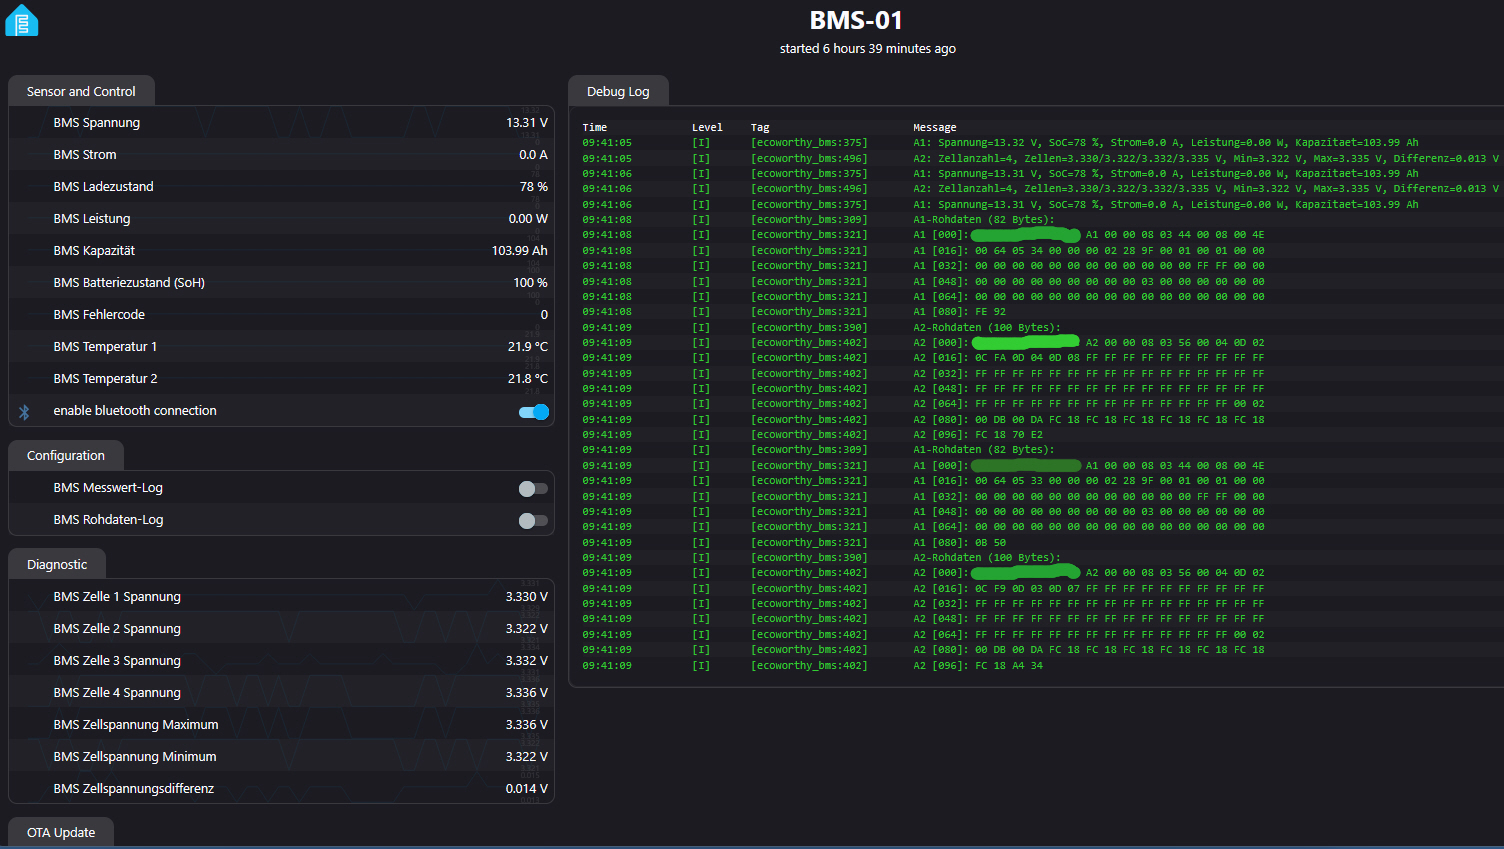
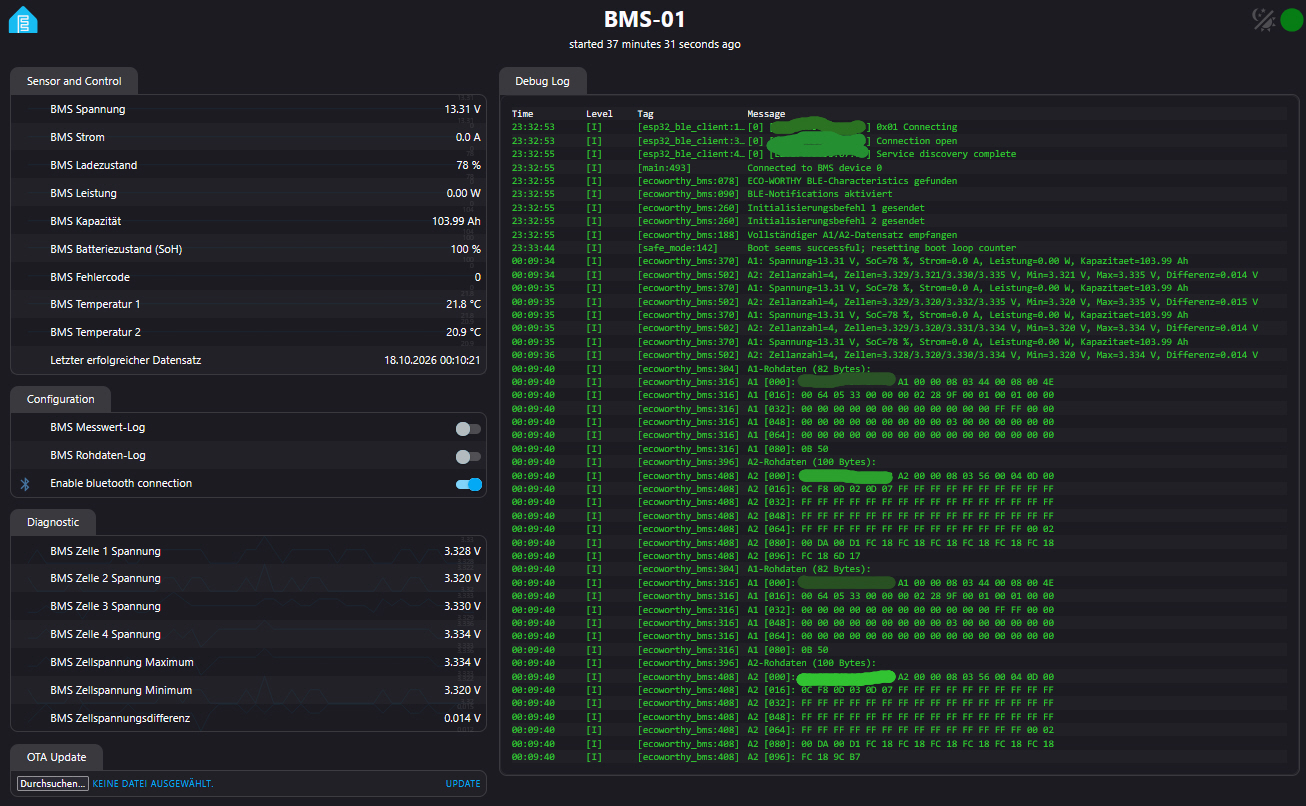
Anpassung Readme

Changed region(s): [[0.0, 0.0, 1.0, 1.0], [0.9495, 0.0, 1.0, 0.062]]

diff --git a/README.md b/README.md
@@ -206,7 +206,8 @@ Die folgenden Werte stammen aus aufgezeichneten Paketen des getesteten BMS.
 | Temperatur 1              | `00 E6`             |          23,0 °C |
 | Temperatur 2              | `00 E2`             |          22,6 °C |
 
-Diese Tabelle dokumentiert eine konkrete Aufzeichnung. Sie garantiert nicht, dass alle ECO-WORTHY-Modelle dieselbe Datenstruktur oder Skalierung verwenden.
+Diese Tabelle dokumentiert eine konkrete Aufzeichnung. Sie garantiert nicht, 
+dass alle ECO-WORTHY-Modelle dieselbe Datenstruktur oder Skalierung verwenden.
 
 ## Beispielkonfiguration
 
@@ -221,180 +222,47 @@ ESPHome-Version getestet wurde.
 Die Konfiguration verwendet ESPHome-Funktionen und Syntax, deren Verfügbarkeit von der 
 ESPHome-Version abhängen kann. Bei älteren Versionen können Anpassungen erforderlich sein.
 
-WLAN-Zugangsdaten und Bluetooth-Adresse müssen an die eigene Installation angepasst werden.
+Passe die WLAN-Zugangsdaten und die Bluetooth-Adresse an deine Installation an.
+
+**Zeitsynchronisation für die Anzeige des letzten erfolgreichen Datenempfangs:**
+
+Der ESP32 benötigt eine gültige Uhrzeit, damit der Zeitpunkt des letzten 
+erfolgreichen Datenempfangs korrekt angezeigt werden kann.
+
+* **Mit Internetzugriff:** Die beiden mit `#` auskommentierten 
+Zeilen `servers` und `- "192.168.1.10"` bleiben auskommentiert. 
+ESPHome verwendet dann automatisch die Standardzeitserver `0.pool.ntp.org`, `1.pool.ntp.org` 
+und `2.pool.ntp.org`.
+* **Ohne Internetzugriff:** Wenn ein lokaler NTP-Zeitserver verfügbar ist, 
+entferne die Kommentarzeichen vor beiden Zeilen und trage dessen IP-Adresse ein. 
+Der Zeitserver muss vom ESP32 erreichbar sein.
+* **Ohne erreichbaren Zeitserver:** Die Uhrzeit kann nicht zuverlässig synchronisiert werden. 
+Der angezeigte Zeitpunkt des letzten Datenempfangs ist dann möglicherweise nicht korrekt.
 
 
 ```yaml
-esphome:
-  name: bms01
-  friendly_name: BMS-01
-
-esp32:
-  board: "esp32-s3-devkitc-1"
-  variant: "esp32s3"
-  framework:
-    type: esp-idf
-
-external_components:
-  - source:
-      type: local
-      path: ./components
 
 wifi:
-  ssid: "WIFI-SSID"
-  password: "SecretWifiPwd"
-  reboot_timeout: 0s
-  min_auth_mode: WPA2
-  fast_connect: True
-  on_connect:
-    - logger.log:
-        level: INFO
-        format: "Connected to WiFi. Starting BLE scan."
-  on_disconnect:
-    - logger.log:
-        level: INFO
-        format: "Disconnected from WiFi. Stopping BLE scan."
+  ssid: "WIFI-SSID"  # Wi-Fi SSID des lokalen WLAN-AP eintragen
+  password: "SecretWifiPwd"  # Password des lokalen WLAN-AP eintragen
 
-web_server:
-  port: 80
-  version: 3
-
-ota:
-  platform: web_server
-  on_begin:
-    then:
-      - switch.turn_off: ble_client_switch0
-      - logger.log: "BLE connection suspended for OTA update"
-
-logger:
-  level: INFO
-
+```
+```yaml
 time:
   - platform: sntp
     id: sntp_time
     timezone: "Europe/Berlin"
-    servers:
-     - 127.0.0.1
+#    servers:
+#     - "192.168.1.10"  # IP-Adresse des lokalen NTP-Zeitservers eintragen
 
-# api:
-esp32_ble_tracker:
-  scan_parameters:
-    active: false
+```
+```yaml
 
 ble_client:
   - id: client0
-    mac_address: "00:00:00:00:00:00"
-    on_connect:
-      then:
-        - logger.log:
-            level: INFO
-            format: "Connected to BMS device 0"
-    on_disconnect:
-      then:
-        - logger.log:
-            level: INFO
-            format: "Disconnected from BMS device 0"
+    mac_address: "00:00:00:00:00:00"  # MAC-Adresse des BMS eintragen
 
-ecoworthy_bms:
-  - id: bms0
-    ble_client_id: client0
-    update_interval: 2s
 
-    voltage:
-      name: "BMS Spannung"
-      web_server:
-        sorting_weight: 0
-
-    current:
-      name: "BMS Strom"
-      web_server:
-        sorting_weight: 1
-
-    soc:
-      name: "BMS Ladezustand"
-      web_server:
-        sorting_weight: 2
-    power:
-      name: "BMS Leistung"
-      web_server:
-        sorting_weight: 3
-    capacity:
-      name: "BMS Kapazität"
-      web_server:
-        sorting_weight: 4
-
-    battery_health:
-      name: "BMS Batteriezustand (SoH)"
-      web_server:
-        sorting_weight: 5
-    problem_code:
-      name: "BMS Fehlercode"
-      web_server:
-        sorting_weight: 6
-
-    temperature1:
-      name: "BMS Temperatur 1"
-    temperature2:
-      name: "BMS Temperatur 2"
-
-    cell1_voltage:
-      name: "BMS Zelle 1 Spannung"
-      entity_category: diagnostic
-    cell2_voltage:
-      name: "BMS Zelle 2 Spannung"
-      entity_category: diagnostic
-    cell3_voltage:
-      name: "BMS Zelle 3 Spannung"
-      entity_category: diagnostic
-    cell4_voltage:
-      name: "BMS Zelle 4 Spannung"
-      entity_category: diagnostic
-
-    cell_min_voltage:
-      name: "BMS Zellspannung Minimum"
-      entity_category: diagnostic
-    cell_max_voltage:
-      name: "BMS Zellspannung Maximum"
-      entity_category: diagnostic
-    cell_voltage_diff:
-      name: "BMS Zellspannungsdifferenz"
-      entity_category: diagnostic
-
-switch:
-  - platform: ble_client
-    ble_client_id: client0
-    name: "Enable bluetooth connection"
-    id: ble_client_switch0
-
-  - platform: template
-    name: "BMS Messwert-Log"
-    id: bms_log_values_switch
-    optimistic: true
-    restore_mode: ALWAYS_OFF
-    entity_category: config
-    web_server:
-      sorting_weight: 0
-    turn_on_action:
-      - lambda: |-
-          id(bms0)->show_log_values_ = true;
-    turn_off_action:
-      - lambda: |-
-          id(bms0)->show_log_values_ = false;
-
-  - platform: template
-    name: "BMS Rohdaten-Log"
-    id: bms_log_raw_data_switch
-    optimistic: true
-    restore_mode: ALWAYS_OFF
-    entity_category: config
-    web_server:
-      sorting_weight: 1
-    turn_on_action:
-      - lambda: |-
-          id(bms0)->show_log_raw_data_ = true;
-    turn_off_action:
-      - lambda: |-
-          id(bms0)->show_log_raw_data_ = false;
 ```
 
 ## Logging
